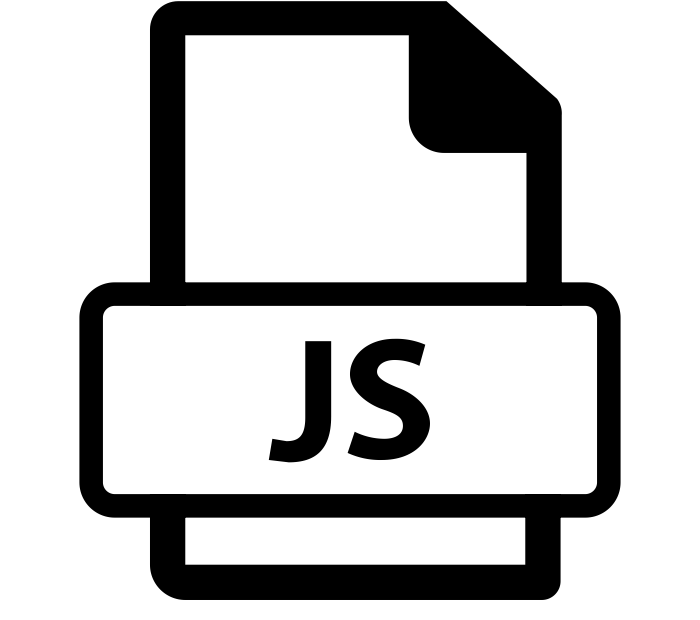
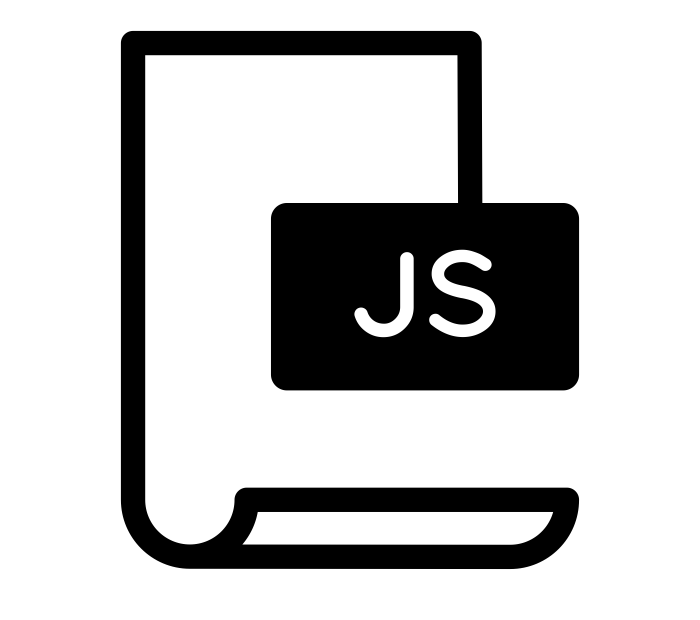
08 commit :javascript img파일 깨짐현상 해결을 위한 커밋입니다.

diff --git a/index.html b/index.html
@@ -139,7 +139,7 @@
                 </div>
                 <div class="col-xs-12 col-sm-3 col-md-3 col-lg-3" data-wow-delay="0.3s">
 					<div class="service-box wow bounceInDown" data-wow-delay="0.1s">
-						<img style="width : 100px;" src="img/skill/Javascript.png" alt="">
+						<img style="width : 100px;" src="img/skill/Javascript1.png" alt="">
 						<h4>Javascript</h4>
 						<p>Lorem ipsum dolor sit amet, ut decore iracundia urbanitas sit.</p>
 						
